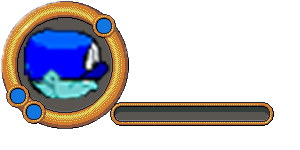
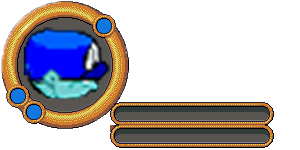
nrj

Changed region(s): [[0.36, 0.8267, 0.93, 0.9867]]

diff --git a/src/machine_a_glace/View.java b/src/machine_a_glace/View.java
@@ -36,9 +36,13 @@ public class View extends BasicGame {
 	int seconde = 35000;
 
 	int minute = 3;
+	
+	boolean bool1 = false;
+	boolean bool2=false;
 
 	int popup_test_1 = 0;
 	int popup_test_2 = 0;
+	private int nrj;
 	private float x = 976, y = 32 + 16;
 	private float PourcentRouge = 0;
 	private float PourcentBleu = 0;
@@ -58,8 +62,16 @@ public class View extends BasicGame {
 	private final float FIN_VIE_ROUGE_X = 1778;
 	private final float VIE_Y = 122;
 
+	private final float NRJ_Y = 145;
 	private final float DEBUT_VIE_BLEU_X = 130;
 	private final float FIN_VIE_BLEU_X = 277;
+
+	// private final float DEBUT_NRJ_ROUGE_X = 1631;
+	// private final float FIN_NRJ_ROUGE_X = 1778;
+	//
+	//
+	// private final float DEBUT_NRJ_BLEU_X = 130;
+	// private final float FIN_NRJ_BLEU_X = 277;
 
 	private boolean canmove = false;
 	private boolean canmove2 = false;
@@ -245,15 +257,18 @@ public class View extends BasicGame {
 		afficher_pdv(j1);
 		afficher_pdv(j2);
 
-		inventaire.draw(100, 175);
-		inventaire.draw(1560, 175);
+		afficher_nrj(j1);
+		afficher_nrj(j2);
+
+		inventaire.draw(100, 195);
+		inventaire.draw(1560, 195);
 		afficher_inventaire(j1);
 		afficher_inventaire(j2);
 
 		j1.afficher_inventaire();
 
-		robots_inv.draw(120, 650);
-		robots_inv2.draw(1580, 650);
+		robots_inv.draw(120, 670);
+		robots_inv2.draw(1580, 670);
 
 		// for (int i = 0; i < this.pos_color.size(); i++) {
 		// peinture_rouge.drawCentered(this.pos_color.get(i).getX(),
@@ -358,15 +373,16 @@ public class View extends BasicGame {
 
 		g.drawAnimation(animations4[0 + (true ? 4 : 0)], (15 * 32 + 15 * 32 + 16) - 32, (5 * 32 + 16) - 60);
 
-		
 		if (this.popup_test_1 == 25) {
 
 			this.popup_test_1 = 0;
-			if (Terrain.terrain[this.j1.getLine()][this.j1.getCol()].isCreer()) {
+			if (Terrain.terrain[this.j1.getLine()][this.j1.getCol()].isCreer() && j1.isNrj()) {
 				Terrain.terrain[this.j1.getLine()][this.j1.getCol()].setCase(Contenu.Joueur);
 				this.j1.setNb_cases_coloriees(this.j1.getNb_cases_coloriees() - 1);
 				Terrain.terrain[this.j1.getLine()][this.j1.getCol()].setCouleur(Couleur.Neutre);
+				j1.SetNrj(j1.getNrj() - 75);
 				this.container.pause();
+				
 				int t = 0;
 				while (t < 5) {
 					JOptionPane r = new JOptionPane();
@@ -405,16 +421,24 @@ public class View extends BasicGame {
 				}
 
 			}
-		} else {
+		} else if (Terrain.terrain[this.j1.getLine()][this.j1.getCol()].isCreer() && !j1.isNrj()) {
+			Terrain.terrain[this.j1.getLine()][this.j1.getCol()].setCouleur(Couleur.Neutre);
+			if(bool1){bool1=false;
+			this.j1.setNb_cases_coloriees(this.j1.getNb_cases_coloriees() - 1);}
+		} else{
 			this.popup_test_1++;
+			bool1=true;
 		}
+			
 
 		if (this.popup_test_2 == 25) {
 			this.popup_test_2 = 0;
-			if (Terrain.terrain[this.j2.getLine()][this.j2.getCol()].isCreer()) {
+			if (Terrain.terrain[this.j2.getLine()][this.j2.getCol()].isCreer() && j2.isNrj()) {
 				Terrain.terrain[this.j2.getLine()][this.j2.getCol()].setCase(Contenu.Joueur);
-				this.j1.setNb_cases_coloriees(this.j2.getNb_cases_coloriees() - 1);
+				this.j2.setNb_cases_coloriees(this.j2.getNb_cases_coloriees() - 1);
 				Terrain.terrain[this.j2.getLine()][this.j2.getCol()].setCouleur(Couleur.Neutre);
+				
+				j2.SetNrj(j2.getNrj() - 75);
 				this.container.pause();
 				int t2 = 0;
 				while (t2 < 5) {
@@ -455,8 +479,13 @@ public class View extends BasicGame {
 					t2++;
 				}
 			}
-		} else {
+		} else if (Terrain.terrain[this.j2.getLine()][this.j2.getCol()].isCreer() && !j2.isNrj()) {
+			Terrain.terrain[this.j2.getLine()][this.j2.getCol()].setCouleur(Couleur.Neutre);
+			if(bool2){bool2=false;
+			this.j2.setNb_cases_coloriees(this.j2.getNb_cases_coloriees() - 1);}
+		} else{
 			this.popup_test_2++;
+		bool2=true;
 		}
 		// System.out.println("( "+ x + " , " + y + " ) ");
 		// g.drawString(minute + " m " + seconde / 1000 + " s", 945, 470);
@@ -465,11 +494,11 @@ public class View extends BasicGame {
 		uniFont2.drawString(290, 10, (int) (PourcentBleu * 100) + " % ", Color.blue);
 		g.drawString("" + j2.getPdv(), 190, 120);
 		g.drawString("" + j1.getPdv(), 1700, 120);
-		g.drawString(" Inventaire ", 187, 150);
-		g.drawString(" Inventaire ", 1617, 150);
+		g.drawString(" Inventaire ", 187, 170);
+		g.drawString(" Inventaire ", 1617, 170);
 
-		g.drawString(" Etat des robots ", 140, 630);
-		g.drawString(" Etat des robots  ", 1617, 630);
+		g.drawString(" Etat des robots ", 140, 650);
+		g.drawString(" Etat des robots  ", 1617, 650);
 
 		uniFont2.drawString(1472, 10, (int) (PourcentRouge * 100) + " % ", Color.red);
 		if (minute < 10) {
@@ -524,7 +553,14 @@ public class View extends BasicGame {
 			PourcentBleu = 0;
 			PourcentRouge = 0;
 		}
-
+		System.out.println(""+seconde);
+		if((int)(seconde)%40==0){
+			if(j1.getNrj()<=100)
+			j1.SetNrj(j1.getNrj()+1);
+			if(j2.getNrj()<=100)
+			j2.SetNrj(j2.getNrj()+1);
+		}
+		
 		if (seconde > -delta && seconde < delta) {
 			seconde = 60000;
 			if (minute == 0) {
@@ -537,7 +573,6 @@ public class View extends BasicGame {
 		this.secs2 += delta;
 		secsrobot += delta;
 		this.container.resume();
-
 
 		if (this.moving) {
 			// switch (this.j1.getD()) {
@@ -811,7 +846,7 @@ public class View extends BasicGame {
 		// System.out.println(key + "- " + c);
 		switch (key) {
 		case Input.KEY_UP:
-			
+
 			this.moving = false;
 			break;
 		case Input.KEY_LEFT:
@@ -1085,6 +1120,34 @@ public class View extends BasicGame {
 			}
 			if (j.getPdv() == 100)
 				fin_v_r.draw(this.FIN_VIE_ROUGE_X, this.VIE_Y);
+
+		}
+	}
+
+	public void afficher_nrj(Joueur j) throws SlickException {
+		Image deb = new Image("maps/debut_nrj.png");
+		Image mil = new Image("maps/milieu_nrj.png");
+		Image fin= new Image("maps/fin_nrj.png");
+
+
+
+		float ratio = (float) (j.getNrj() * 0.01 * 21 * 7);
+
+		if (j.getCouleur() == Couleur.Bleu && j.getNrj() > 0) {
+			deb.draw(this.DEBUT_VIE_BLEU_X, this.NRJ_Y);
+
+			for (float i = this.DEBUT_VIE_BLEU_X + 7; i < this.DEBUT_VIE_BLEU_X + ratio; i += 7) {
+				mil.draw(i, this.NRJ_Y);
+			}
+			if (j.getNrj() == 100)
+				fin.draw(this.FIN_VIE_BLEU_X, this.NRJ_Y);
+		} else if (j.getNrj() > 0) {
+			deb.draw(this.DEBUT_VIE_ROUGE_X, this.NRJ_Y);
+			for (float i = this.DEBUT_VIE_ROUGE_X + 7; i < this.DEBUT_VIE_ROUGE_X + ratio; i += 7) {
+				mil.draw(i, this.NRJ_Y);
+			}
+			if (j.getNrj() == 100)
+				fin.draw(this.FIN_VIE_ROUGE_X, this.NRJ_Y);
 
 		}
 	}

diff --git a/src/machine_a_glace/Joueur.java b/src/machine_a_glace/Joueur.java
@@ -4,11 +4,13 @@ import java.util.ArrayList;
 
 public class Joueur extends Entite {
 	private int nb_cases_coloriees = 0;
-
+	private int nrj;
+	
 	private ArrayList<Expr> inventaire;
 
-	public Joueur(int x, int y, Couleur c, int pdv) {
+	public Joueur(int x, int y, Couleur c, int pdv,int nrj) {
 		super(x, y, c, pdv);
+		this.nrj=nrj;
 		Terrain.terrain[getLine()][getCol()].setCase(Contenu.Joueur);
 		Terrain.terrain[getLine()][getCol()].setEntite(this);
 		inventaire = new ArrayList<Expr>();
@@ -17,6 +19,20 @@ public class Joueur extends Entite {
 	public int getNombre_Case_Coloriees() {
 		return nb_cases_coloriees;
 	}
+	
+	public int getNrj() {
+		return nrj;
+	}
+	
+	public void SetNrj(int n) {
+		 nrj=n;
+	}
+
+	public boolean isNrj(){
+		return nrj>=70;
+		
+	}
+
 
 	public void Avancer(int pas) {
 

diff --git a/src/machine_a_glace/ColorWar.java b/src/machine_a_glace/ColorWar.java
@@ -9,8 +9,8 @@ public class ColorWar {
 
 	public static void main(String[] args) throws SlickException {
 		Terrain.initialiser();
-		Joueur j1 = new Joueur(1, 15, Couleur.Rouge,50);
-		Joueur j2 = new Joueur(28, 15, Couleur.Bleu,100);
+		Joueur j1 = new Joueur(1, 15, Couleur.Rouge,50,100);
+		Joueur j2 = new Joueur(28, 15, Couleur.Bleu,100,100);
 
 		
 
